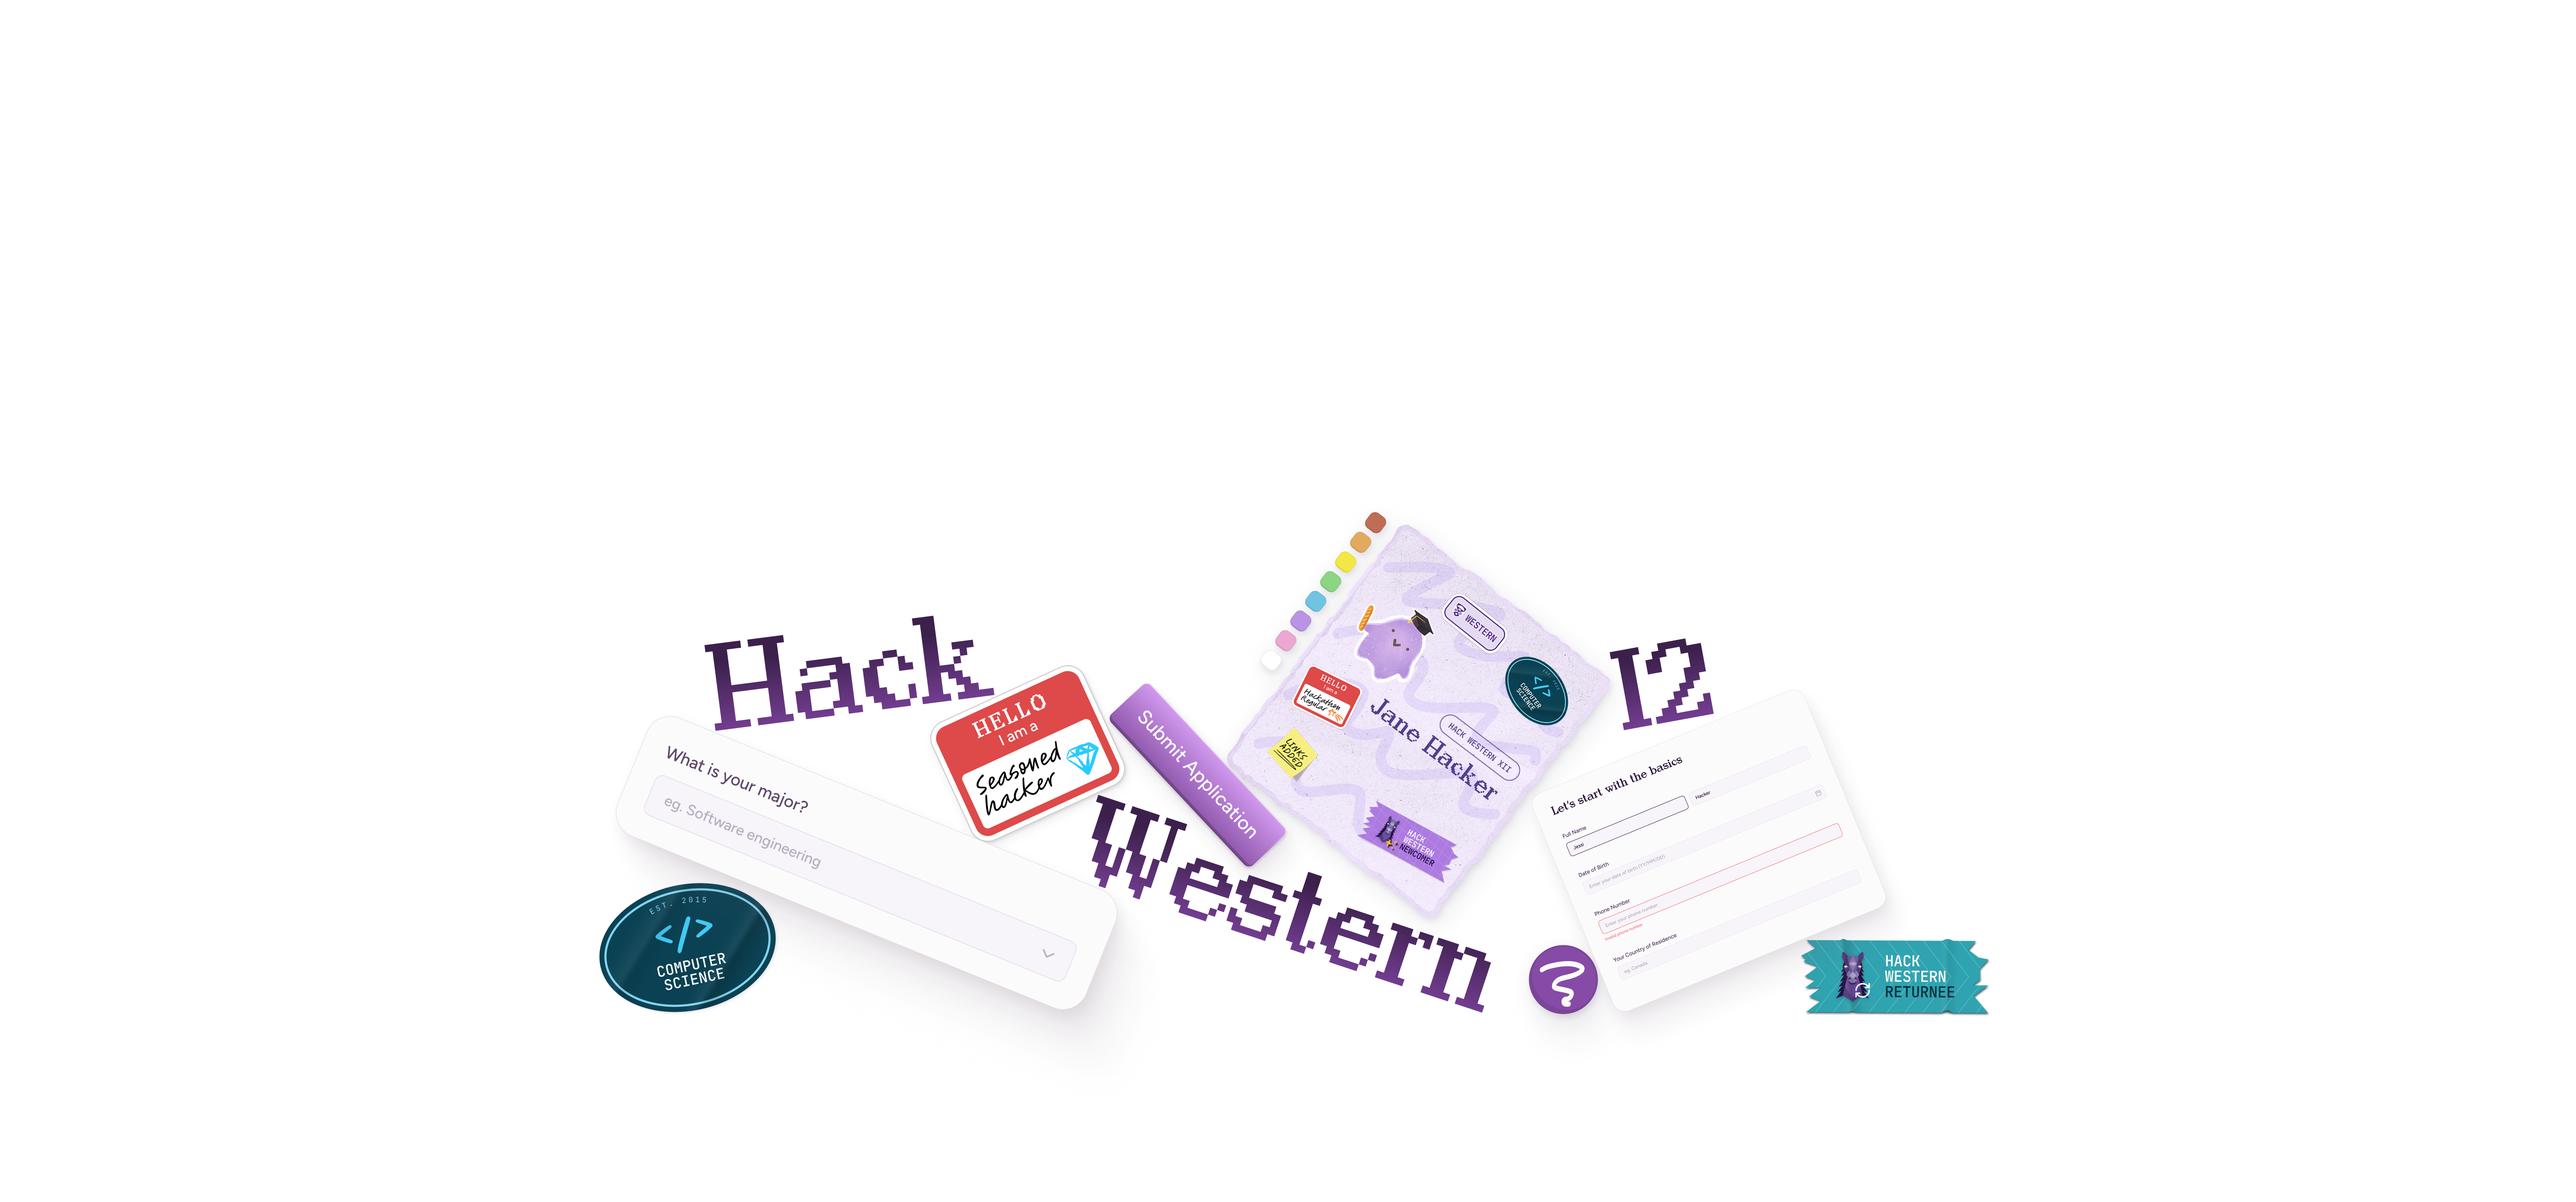
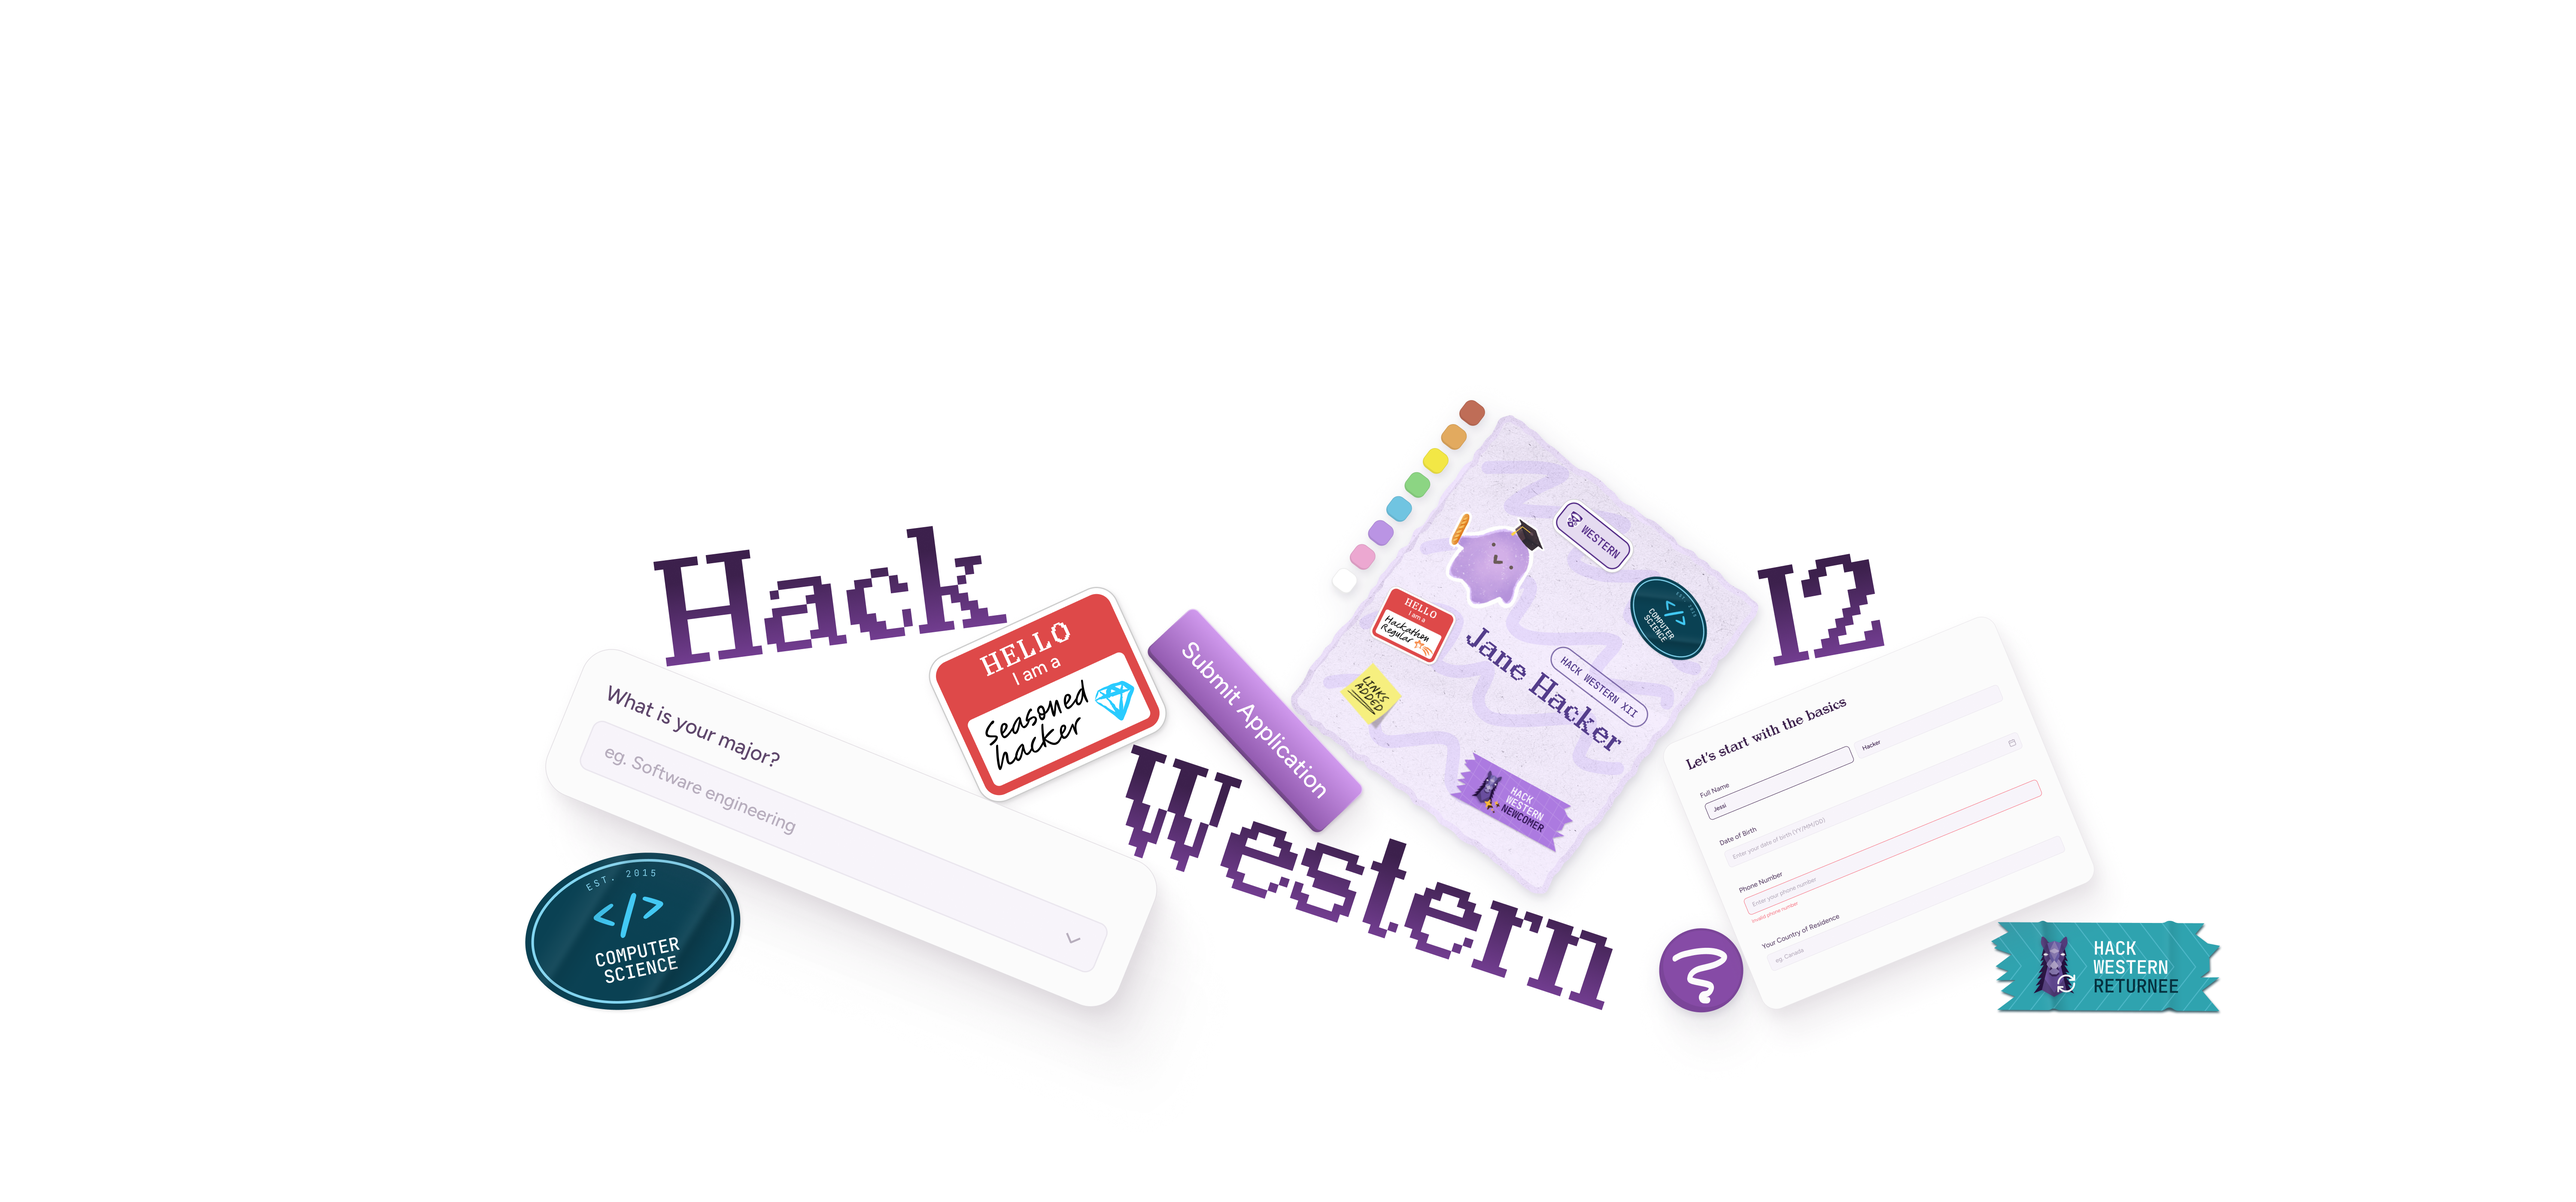
hw hero responsiveness

Changed region(s): [[0.187, 0.3418, 0.8727, 0.87], [0.374, 0.8079, 0.4363, 0.8389], [0.3428, 0.7768, 0.374, 0.8079]]

diff --git a/content/case-studies/hack-western.tsx b/content/case-studies/hack-western.tsx
@@ -222,8 +222,8 @@ export default function HackWestern() {
       </Section>
 
       <Section
-        id="final-product"
-        tag="Final Product"
+        id="result"
+        tag="Result"
         headline="The redesigned portal shipped to 2,000+ hackers and received overwhelmingly positive feedback!"
         primary
       >
